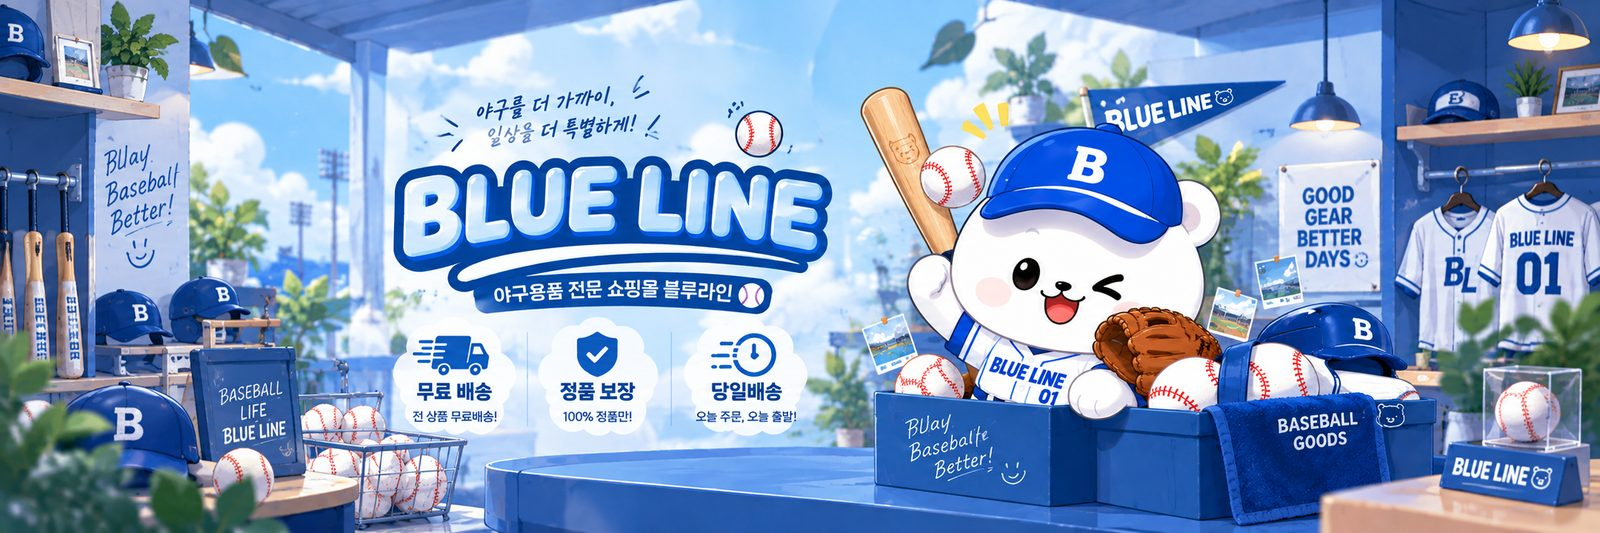
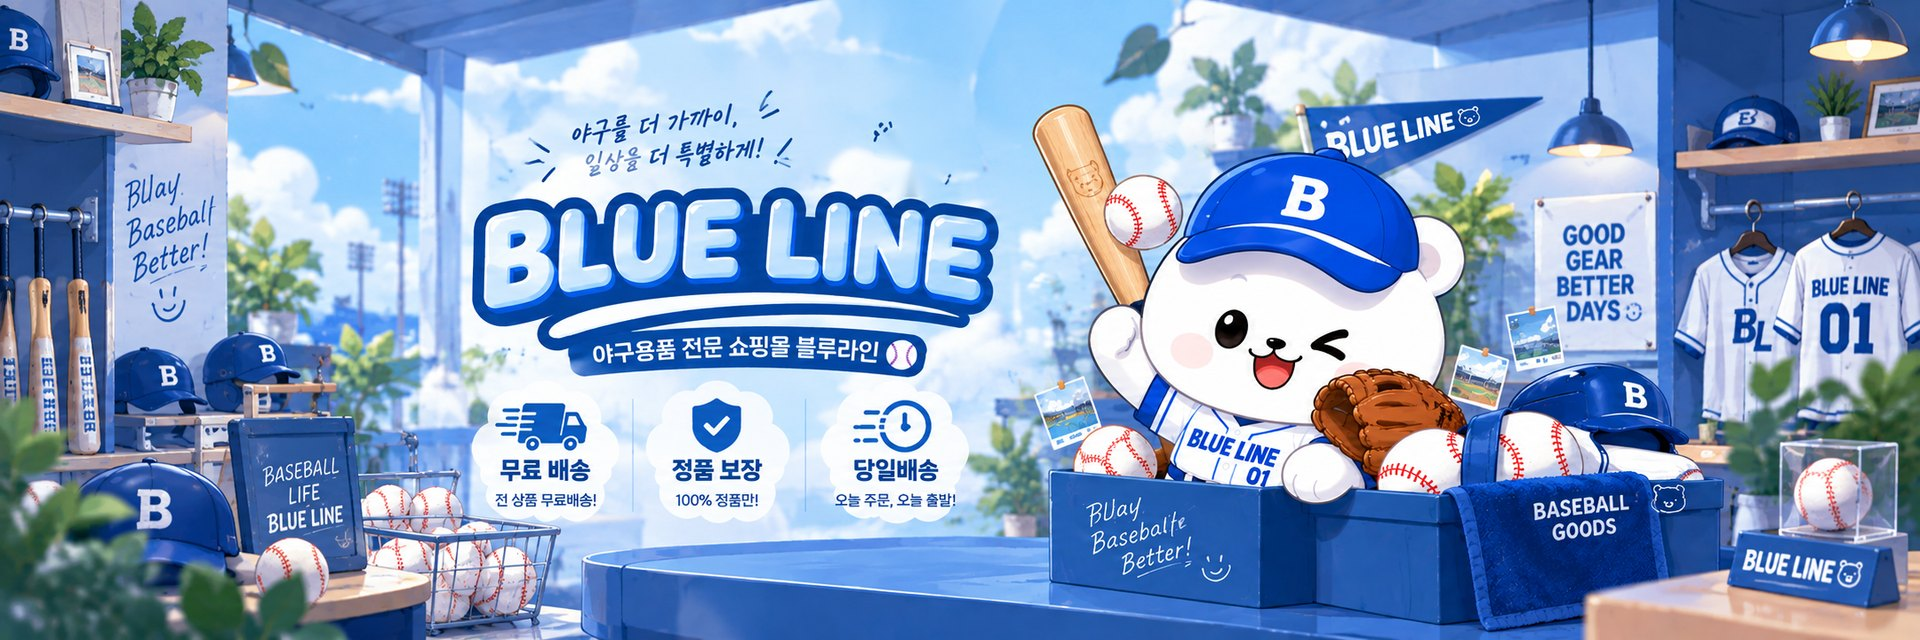
배너 애니메이션 추가 (공/표시 움직임)

diff --git a/css/style.css b/css/style.css
@@ -94,15 +94,54 @@ body.intro-active { overflow: hidden; }
 
 .hero-banner { background: var(--bg); border-bottom: 1px solid var(--border); padding: 0; }
 
-.hero-banner-image { display: block; width: 100vw; margin-left: calc(50% - 50vw); height: auto; }
+.hero-banner-stage { position: relative; width: 100vw; margin-left: calc(50% - 50vw); }
 
-.eyebrow { margin: 0 0 10px; color: var(--blue); font-weight: 700; letter-spacing: .16em; text-transform: uppercase; font-size: 13px; }
+.hero-banner-image { display: block; width: 100%; height: auto; }
 
-.hero-desc { color: var(--muted); font-size: 16px; line-height: 1.8; }
+/* 배너 일부만 움직이는 효과 (transform/opacity만 사용 → 가벼움) */
+.hero-fx { position: absolute; height: auto; pointer-events: none; will-change: transform; }
 
-.hero-cta { display: inline-block; margin-top: 30px; padding: 15px 36px; border-radius: 999px; background: var(--navy); color: #fff; font-weight: 700; font-size: 15px; letter-spacing: .02em; text-decoration: none; box-shadow: 0 8px 20px rgba(29,58,102,.25); transition: transform .2s, box-shadow .2s, background .2s; }
+.hero-fx-ball1 { left: 45.672%; top: 19.89%; width: 3.591%; animation: hero-bob 3.6s ease-in-out infinite, hero-sway 5.4s ease-in-out infinite, hero-tilt 4.5s ease-in-out infinite; }
 
-.hero-cta:hover { background: var(--blue); transform: translateY(-2px); box-shadow: 0 12px 24px rgba(47,111,237,.3); }
+.hero-fx-marks { left: 59.807%; top: 18.232%; width: 3.545%; animation: hero-pulse 2s ease-in-out infinite; }
+
+.hero-fx-ball2 { left: 57.551%; top: 27.21%; width: 4.052%; animation: hero-spin 3.2s linear infinite; }
+
+/* 슬로건 옆 공: 위아래 / 좌우 / 기울기가 서로 다른 박자로 움직여 자연스럽게 둥실둥실 */
+@keyframes hero-bob {
+  0%, 100% { translate: 0 0; }
+  50% { translate: 0 -40%; }
+}
+
+@keyframes hero-sway {
+  0%, 100% { transform: translateX(-10%); }
+  50% { transform: translateX(10%); }
+}
+
+@keyframes hero-tilt {
+  0%, 100% { rotate: -8deg; }
+  50% { rotate: 8deg; }
+}
+
+/* 노란 표시: "!!" 하고 두 번 팍팍 튀고 잠깐 쉼 */
+@keyframes hero-pulse {
+  0%   { transform: scale(1) rotate(0deg); }
+  12%  { transform: scale(1.45) rotate(-7deg); }
+  26%  { transform: scale(1) rotate(0deg); }
+  40%  { transform: scale(1.3) rotate(6deg); }
+  54%, 100% { transform: scale(1) rotate(0deg); }
+}
+
+/* 방망이 옆 공: 한 바퀴씩 돌면서 살짝 커졌다 작아짐 */
+@keyframes hero-spin {
+  0%   { transform: rotate(0deg) scale(1); }
+  50%  { transform: rotate(180deg) scale(1.12); }
+  100% { transform: rotate(360deg) scale(1); }
+}
+
+@media (prefers-reduced-motion: reduce) {
+  .hero-fx { animation: none; }
+}
 
 /* ── 랭킹 미리보기 ──────────────────────── */
 .ranking-preview { background: #fff; padding: 56px 0; }

diff --git a/index.html b/index.html
@@ -24,9 +24,12 @@
   </header>
 
   <section class="hero-banner">
-    <div class="container">
-      <img class="hero-banner-image" src="images/banner.jpg" alt="블루라인 야구용품 메인 배너" />
-    </div>
+        <div class="hero-banner-stage">
+          <img class="hero-banner-image" src="images/banner.jpg" alt="블루라인 야구용품 메인 배너" />
+          <img class="hero-fx hero-fx-ball1" src="images/banner-ball1.png" alt="" aria-hidden="true" />
+          <img class="hero-fx hero-fx-marks" src="images/banner-marks.png" alt="" aria-hidden="true" />
+          <img class="hero-fx hero-fx-ball2" src="images/banner-ball2.png" alt="" aria-hidden="true" />
+      </div>
   </section>
 
   <section class="ranking-preview">
